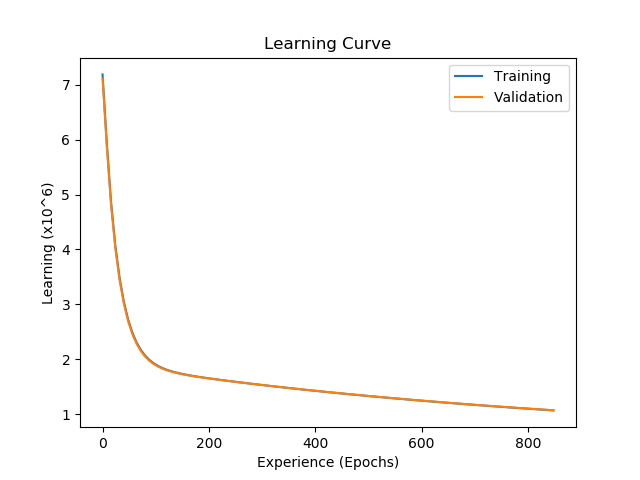
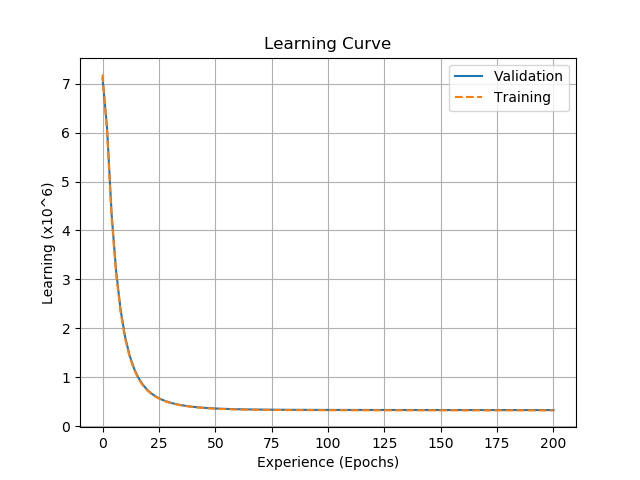
Added fitting plot

diff --git a/visualization.py b/visualization.py
@@ -126,19 +126,29 @@ def avg_traffic_per_weather(data):
 
 #### MODEL ANALYSIS ####
 
-def learning_curve(X, Y, Xv, Yv, knowledge, test):
+def learning_curve():
+    X, Y, feat_list = model.prepare_dataset("Datasets/training.csv")
+    X = norm.normalize_data(X, choice=1, features=feat_list)
+    X, o, Y = desc.numpy_and_bias(X, Y)
+    desc.descent(X, o, Y, t_lim=30, e_lim=200, rate=1)
+    
+    Xv, Yv, feat_list = model.prepare_dataset("Datasets/validate.csv")
+    Xv = norm.normalize_data(Xv, choice=1, features=feat_list)
+    Xv, _, Yv = desc.numpy_and_bias(Xv, Yv)
+
     train = []
     valid = []
-    T = knowledge
+    T = desc.epochs_info[0]
+    
     step = int(max(1, np.floor(len(T)/100)))
     exp = range(0, len(T), step)
 
     for i in exp:
-        train.append(test(*(X,T[i],Y))/10**6)
-        valid.append(test(*(Xv,T[i],Yv))/10**6)
+        train.append(desc.cost(X,T[i],Y)/10**6)
+        valid.append(desc.cost(Xv,T[i],Yv)/10**6)
 
-    plt.plot(exp, train, label='Training')
     plt.plot(exp, valid, label='Validation')
+    plt.plot(exp, train, label='Training', ls='--')
     plt.legend()
     plt.xlabel('Experience (Epochs)')
     plt.ylabel('Learning (x10^6)')
@@ -249,4 +259,5 @@ def norm_check(feat_list):
 ##### CALLING AREA #####
 
 # alpha_comparison('s',"Stochastic Learning Rates", [0.1, 0.01, 0.001,0.0001])
-gradient_comparison(0.01)
+# gradient_comparison(0.01)
+learning_curve()
